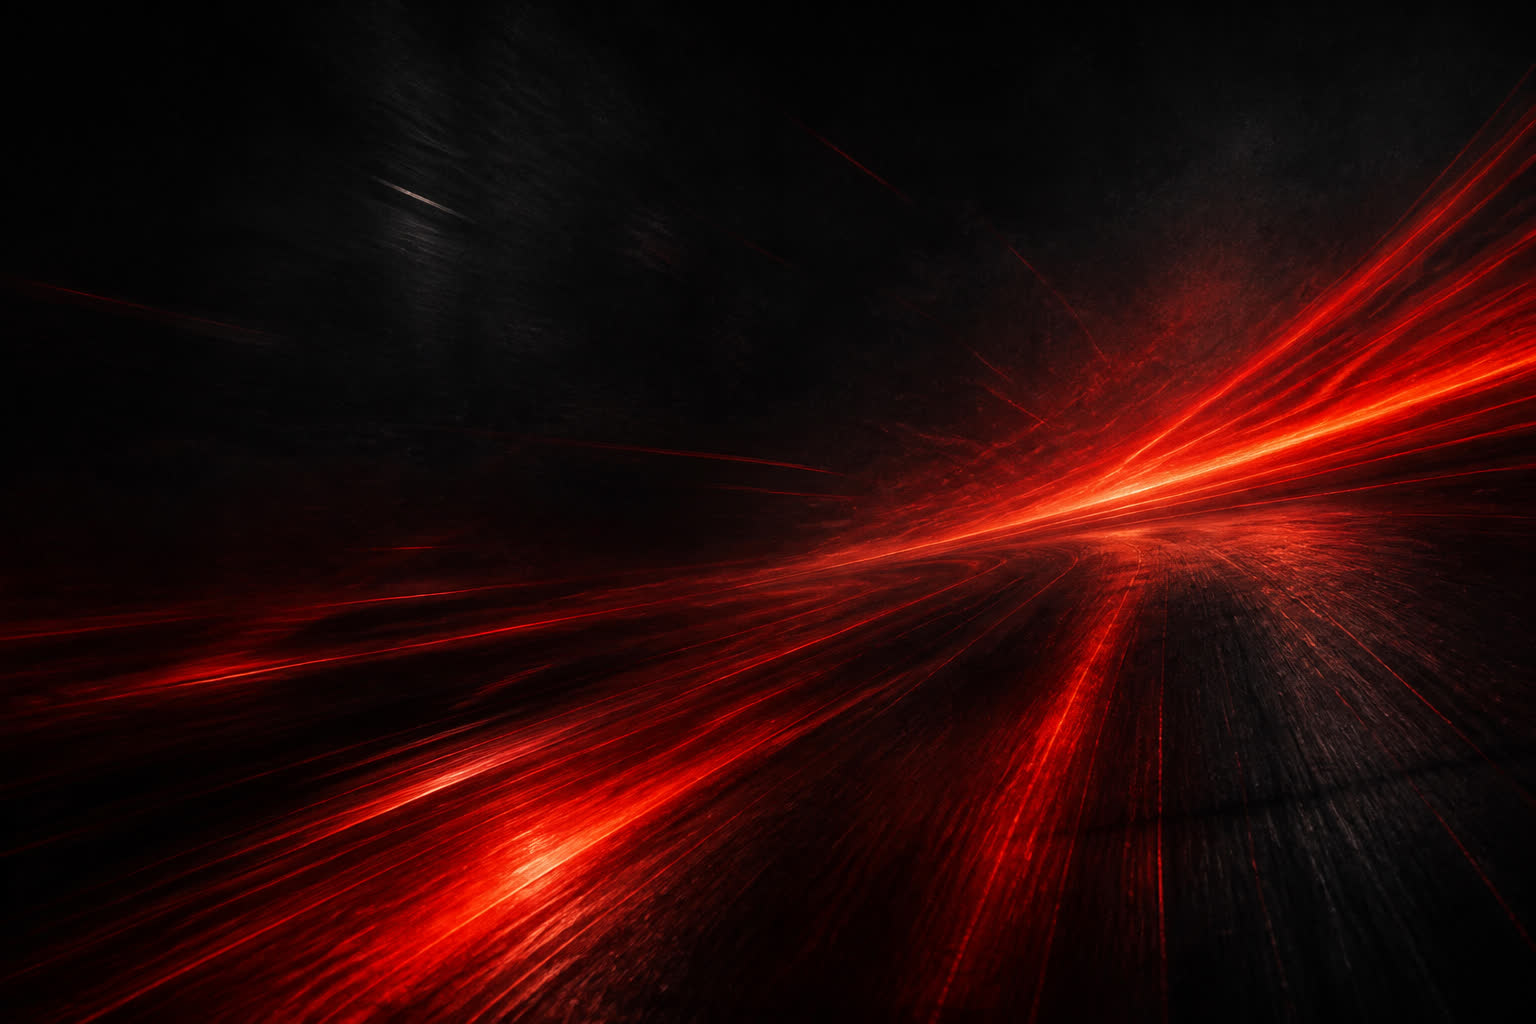
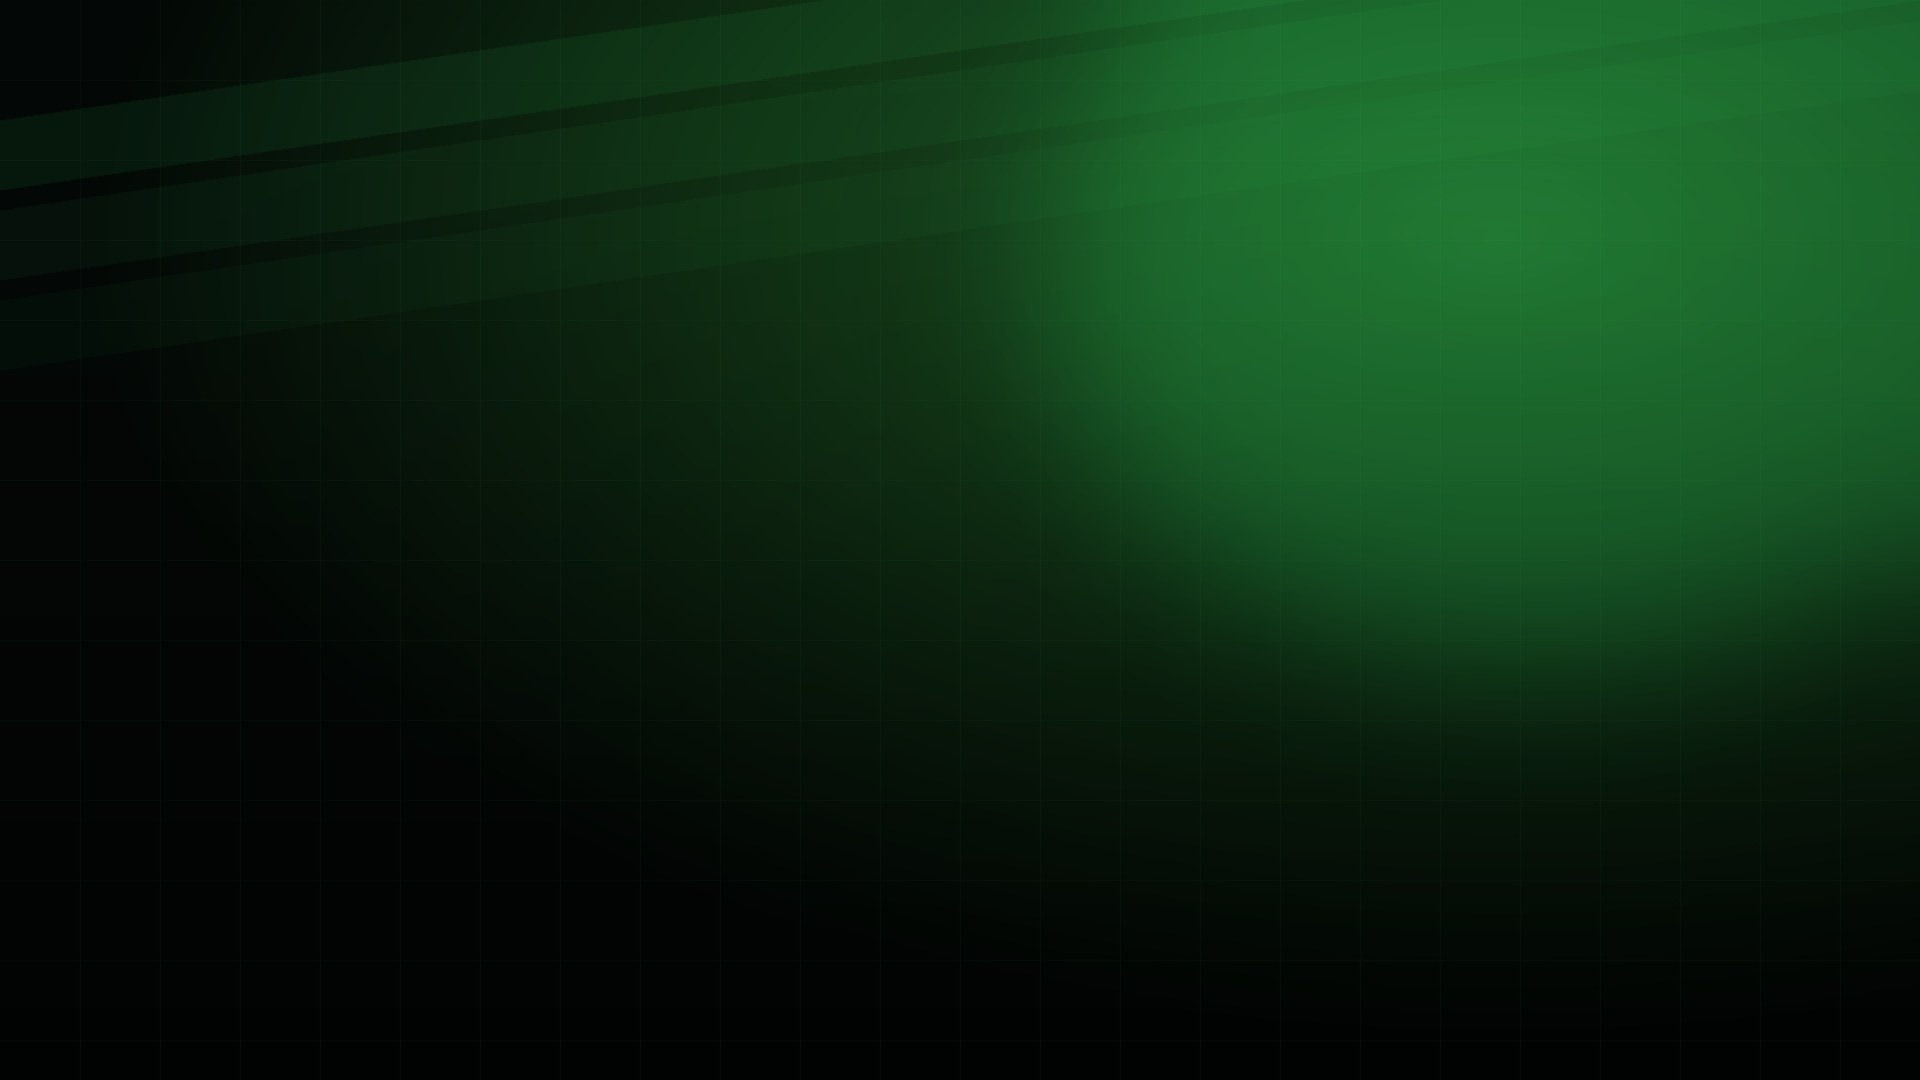
Aplica a paleta verde e preto da Action Fitness
Troca o vermelho de destaque por verde atlético no CSS, nos CTAs, no logo e no hero, alinhando o site às cores da academia.

diff --git a/academia/css/style.css b/academia/css/style.css
@@ -1,12 +1,13 @@
 :root {
-  --bg: #070708;
-  --bg-2: #101012;
-  --card: #141416;
-  --ink: #f6f3ef;
-  --muted: #b1aaa3;
-  --line: rgba(225, 29, 46, 0.28);
-  --red: #e11d2e;
-  --red-2: #ff4d5a;
+  --bg: #050806;
+  --bg-2: #0b100d;
+  --card: #101612;
+  --ink: #f3f8f4;
+  --muted: #a8b3ab;
+  --line: rgba(46, 229, 106, 0.28);
+  --verde: #2ee56a;
+  --verde-2: #7cff9a;
+  --verde-escuro: #0f8f42;
   --header: 76px;
   --radius: 20px;
   --font: "Manrope", system-ui, sans-serif;
@@ -20,7 +21,7 @@ body {
   font-family: var(--font);
   color: var(--ink);
   background:
-    radial-gradient(ellipse 60% 40% at 100% -10%, rgba(225, 29, 46, 0.22), transparent 55%),
+    radial-gradient(ellipse 60% 40% at 100% -10%, rgba(46, 229, 106, 0.18), transparent 55%),
     var(--bg);
   line-height: 1.55;
 }
@@ -28,7 +29,7 @@ body.menu-aberto { overflow: hidden; }
 img { max-width: 100%; display: block; }
 a { color: inherit; text-decoration: none; }
 a:focus-visible, button:focus-visible {
-  outline: 3px solid var(--red);
+  outline: 3px solid var(--verde);
   outline-offset: 3px;
 }
 
@@ -51,7 +52,7 @@ a:focus-visible, button:focus-visible {
   font-weight: 800;
   letter-spacing: 0.2em;
   text-transform: uppercase;
-  color: var(--red);
+  color: var(--verde);
 }
 h1, h2, h3 {
   font-family: var(--display);
@@ -121,8 +122,8 @@ h2 { font-size: clamp(2rem, 5vw, 3.4rem); }
   transition: transform 0.2s ease, box-shadow 0.2s ease, background 0.2s ease, color 0.2s ease, filter 0.2s ease;
 }
 .btn:hover { transform: translateY(-3px); }
-.btn-red { background: var(--red); color: #fff; box-shadow: 0 10px 22px rgba(225, 29, 46, 0.32); }
-.btn-red:hover { background: var(--red-2); color: #fff; }
+.btn-verde { background: var(--verde); color: #061109; box-shadow: 0 10px 22px rgba(46, 229, 106, 0.32); }
+.btn-verde:hover { background: var(--verde-2); color: #061109; }
 .btn-whatsapp { background: #25d366; color: #fff; }
 .btn-whatsapp:hover { background: #1ebe5d; color: #fff; }
 .btn-ghost { background: transparent; color: var(--ink); border: 1.5px solid rgba(255,255,255,.28); }
@@ -136,7 +137,7 @@ h2 { font-size: clamp(2rem, 5vw, 3.4rem); }
   height: 46px;
   border: 0;
   border-radius: 12px;
-  background: #1a1a1e;
+  background: #141a16;
   cursor: pointer;
 }
 .menu-toggle span { display: block; width: 18px; height: 2px; margin: 4px auto; background: #fff; }
@@ -168,7 +169,7 @@ h2 { font-size: clamp(2rem, 5vw, 3.4rem); }
     linear-gradient(180deg, rgba(7,7,8,.15) 0%, rgba(7,7,8,.55) 42%, rgba(7,7,8,.92) 100%);
 }
 .hero h1 { font-size: clamp(3.2rem, 10vw, 7.2rem); max-width: 12ch; }
-.hero h1 em { font-style: normal; color: var(--red); }
+.hero h1 em { font-style: normal; color: var(--verde); }
 .hero .lead { max-width: 36rem; font-size: 1.15rem; margin: 0.9rem 0 1.3rem; }
 .hero-actions { display: flex; flex-wrap: wrap; gap: 0.7rem; }
 .hero-chip {
@@ -203,7 +204,7 @@ h2 { font-size: clamp(2rem, 5vw, 3.4rem); }
   display: block;
   font-family: var(--display);
   font-size: 2rem;
-  color: var(--red);
+  color: var(--verde);
 }
 .stats span { color: var(--muted); font-size: 0.9rem; }
 
@@ -220,9 +221,9 @@ h2 { font-size: clamp(2rem, 5vw, 3.4rem); }
 .foto-slot {
   min-height: 380px;
   border-radius: 28px;
-  border: 1px dashed rgba(225, 29, 46, 0.4);
+  border: 1px dashed rgba(46, 229, 106, 0.4);
   background:
-    linear-gradient(160deg, rgba(225, 29, 46, 0.18), rgba(255,255,255,0.03));
+    linear-gradient(160deg, rgba(46, 229, 106, 0.18), rgba(255,255,255,0.03));
   display: grid;
   place-items: center;
   text-align: center;
@@ -236,8 +237,8 @@ h2 { font-size: clamp(2rem, 5vw, 3.4rem); }
   border-radius: 14px;
   display: grid;
   place-items: center;
-  background: rgba(225, 29, 46, 0.12);
-  color: var(--red);
+  background: rgba(46, 229, 106, 0.12);
+  color: var(--verde);
   margin-bottom: 0.9rem;
 }
 .ico svg { width: 24px; height: 24px; }
@@ -250,14 +251,14 @@ h2 { font-size: clamp(2rem, 5vw, 3.4rem); }
   border-radius: 14px;
   padding: 0.85rem 1rem;
 }
-.dot { width: 8px; height: 8px; border-radius: 50%; background: var(--red); margin-top: 0.5rem; flex-shrink: 0; }
+.dot { width: 8px; height: 8px; border-radius: 50%; background: var(--verde); margin-top: 0.5rem; flex-shrink: 0; }
 .hoje-card {
-  background: #1a0b0d;
-  border: 1px solid var(--red);
+  background: #0b1a10;
+  border: 1px solid var(--verde);
   border-radius: 18px;
   padding: 1.1rem 1.2rem;
 }
-.hoje-card.aberto { box-shadow: 0 0 0 1px var(--red); }
+.hoje-card.aberto { box-shadow: 0 0 0 1px var(--verde); }
 .hoje-card strong { display: block; font-family: var(--display); font-size: 1.5rem; }
 .hoje-card span { color: var(--muted); }
 
@@ -275,7 +276,7 @@ h2 { font-size: clamp(2rem, 5vw, 3.4rem); }
   padding: 1.25rem 1.2rem 1.3rem;
   transition: transform 0.2s ease, border-color 0.2s ease;
 }
-.card:hover { transform: translateY(-4px); border-color: var(--red); }
+.card:hover { transform: translateY(-4px); border-color: var(--verde); }
 .card h3 { font-size: 1.7rem; margin-bottom: 0.45rem; }
 .card p { margin: 0; color: var(--muted); }
 
@@ -287,9 +288,9 @@ h2 { font-size: clamp(2rem, 5vw, 3.4rem); }
 }
 .galeria .slot, .insta-grid .slot {
   border-radius: 18px;
-  border: 1px dashed rgba(225, 29, 46, 0.45);
+  border: 1px dashed rgba(46, 229, 106, 0.45);
   background:
-    linear-gradient(135deg, rgba(225, 29, 46, 0.16), rgba(255,255,255,0.03));
+    linear-gradient(135deg, rgba(46, 229, 106, 0.16), rgba(255,255,255,0.03));
   display: grid;
   place-items: center;
   color: var(--muted);
@@ -323,7 +324,7 @@ h2 { font-size: clamp(2rem, 5vw, 3.4rem); }
   padding: 1.2rem;
 }
 .quote p { margin: 0.4rem 0 0.8rem; font-size: 1.05rem; }
-.stars { color: var(--red); letter-spacing: 0.1em; }
+.stars { color: var(--verde); letter-spacing: 0.1em; }
 .depoimentos-wrap { position: relative; }
 .depoimentos {
   display: flex;
@@ -380,26 +381,31 @@ h2 { font-size: clamp(2rem, 5vw, 3.4rem); }
   border-radius: 16px;
   padding: 0.95rem 1.1rem;
 }
-.horarios article.hoje { border-color: var(--red); background: #1a0b0d; }
+.horarios article.hoje { border-color: var(--verde); background: #0b1a10; }
 .selo-hoje {
   display: inline-block;
   margin-left: 0.5rem;
   font-size: 0.7rem;
   letter-spacing: 0.12em;
   text-transform: uppercase;
-  color: var(--red);
+  color: var(--verde);
   font-weight: 800;
 }
 .selo-hoje[hidden] { display: none; }
 
 .cta-box {
-  background: linear-gradient(135deg, #e11d2e, #8a0d18);
+  background: linear-gradient(135deg, #2ee56a, #0f8f42);
   border-radius: 28px;
   padding: 2.4rem 1.6rem;
   text-align: center;
+  color: #061109;
 }
-.cta-box p { max-width: 34rem; margin: 0.7rem auto 1.2rem; }
-.cta-box .btn-whatsapp { background: #fff; color: #111; }
+.cta-box .kicker { color: #04351a; }
+.cta-box h2 { color: #061109; }
+.cta-box p { max-width: 34rem; margin: 0.7rem auto 1.2rem; color: #0b2414; }
+.cta-box .btn-whatsapp { background: #061109; color: #2ee56a; }
+.cta-box .btn-ghost { color: #061109; border-color: rgba(6, 17, 9, 0.35); }
+.cta-box .btn-ghost:hover { background: #061109; color: #2ee56a; }
 
 .local-grid { grid-template-columns: 0.85fr 1.15fr; }
 .info-card, .hours-card {
@@ -420,7 +426,7 @@ h2 { font-size: clamp(2rem, 5vw, 3.4rem); }
 .site-footer {
   margin-top: 1.5rem;
   padding: 2.3rem 0 1.3rem;
-  background: #050506;
+  background: #030504;
   border-top: 1px solid var(--line);
 }
 .footer-grid { display: grid; grid-template-columns: 1.3fr 1fr 1fr; gap: 1.5rem; }
@@ -481,7 +487,7 @@ h2 { font-size: clamp(2rem, 5vw, 3.4rem); }
     flex-direction: column;
     align-items: stretch;
     gap: 0;
-    background: #121214;
+    background: #0c120e;
     padding: 0.6rem 1rem 1rem;
     border-bottom: 1px solid var(--line);
   }

diff --git a/academia/index.html b/academia/index.html
@@ -15,7 +15,7 @@
   <meta name="twitter:card" content="summary_large_image">
   <meta name="twitter:title" content="Action Fitness | Academia em Estreito - MA">
   <meta name="twitter:description" content="Musculação e treinamento híbrido no centro de Estreito. Fale no WhatsApp.">
-  <meta name="theme-color" content="#070708">
+  <meta name="theme-color" content="#050806">
   <meta name="referrer" content="strict-origin-when-cross-origin">
   <meta http-equiv="X-Content-Type-Options" content="nosniff">
   <meta http-equiv="Content-Security-Policy" content="default-src 'self'; script-src 'self'; style-src 'self' https://fonts.googleapis.com; font-src https://fonts.gstatic.com; img-src 'self' data:; frame-src https://maps.google.com https://www.google.com; base-uri 'self'; form-action 'self' https://wa.me; frame-ancestors 'none'; upgrade-insecure-requests">
@@ -80,7 +80,7 @@
         <a class="btn btn-whatsapp" data-evento="click_whatsapp" href="https://wa.me/5599992348793?text=Ol%C3%A1%21%20Conheci%20a%20Action%20Fitness%20pelo%20site%20e%20gostaria%20de%20saber%20mais%20sobre%20os%20planos." target="_blank" rel="noopener noreferrer">Falar no WhatsApp</a>
       </nav>
       <div class="header-cta">
-        <a class="btn btn-red" href="#contato" data-evento="cta_click">Quero treinar</a>
+        <a class="btn btn-verde" href="#contato" data-evento="cta_click">Quero treinar</a>
       </div>
       <button class="menu-toggle" type="button" aria-expanded="false" aria-controls="menu" aria-label="Abrir menu">
         <span></span><span></span><span></span>
@@ -101,7 +101,7 @@
           <h1>Seu próximo <em>nível</em> começa aqui.</h1>
           <p class="lead">Treine com estrutura, energia e acompanhamento para transformar sua rotina.</p>
           <div class="hero-actions">
-            <a class="btn btn-red btn-lg" href="#estrutura" data-evento="cta_click">Quero conhecer</a>
+            <a class="btn btn-verde btn-lg" href="#estrutura" data-evento="cta_click">Quero conhecer</a>
             <a class="btn btn-whatsapp btn-lg" data-evento="click_whatsapp" href="https://wa.me/5599992348793?text=Ol%C3%A1%21%20Conheci%20a%20Action%20Fitness%20pelo%20site%20e%20gostaria%20de%20saber%20mais%20sobre%20os%20planos." target="_blank" rel="noopener noreferrer">Falar no WhatsApp</a>
           </div>
         </div>
@@ -234,7 +234,7 @@
           <article class="plano"><strong>Mensal</strong><p class="valor">Consulte condições</p><a class="btn btn-ghost" data-evento="click_whatsapp" href="https://wa.me/5599992348793?text=Ol%C3%A1%21%20Quero%20consultar%20o%20plano%20mensal%20da%20Action%20Fitness." target="_blank" rel="noopener noreferrer">Consultar planos</a></article>
           <article class="plano"><strong>Trimestral</strong><p class="valor">Consulte condições</p><a class="btn btn-ghost" data-evento="click_whatsapp" href="https://wa.me/5599992348793?text=Ol%C3%A1%21%20Quero%20consultar%20o%20plano%20trimestral%20da%20Action%20Fitness." target="_blank" rel="noopener noreferrer">Consultar planos</a></article>
           <article class="plano"><strong>Semestral</strong><p class="valor">Consulte condições</p><a class="btn btn-ghost" data-evento="click_whatsapp" href="https://wa.me/5599992348793?text=Ol%C3%A1%21%20Quero%20consultar%20o%20plano%20semestral%20da%20Action%20Fitness." target="_blank" rel="noopener noreferrer">Consultar planos</a></article>
-          <article class="plano"><strong>Anual</strong><p class="valor">Consulte condições</p><a class="btn btn-red" data-evento="click_whatsapp" href="https://wa.me/5599992348793?text=Ol%C3%A1%21%20Quero%20consultar%20o%20plano%20anual%20da%20Action%20Fitness." target="_blank" rel="noopener noreferrer">Consultar planos</a></article>
+          <article class="plano"><strong>Anual</strong><p class="valor">Consulte condições</p><a class="btn btn-verde" data-evento="click_whatsapp" href="https://wa.me/5599992348793?text=Ol%C3%A1%21%20Quero%20consultar%20o%20plano%20anual%20da%20Action%20Fitness." target="_blank" rel="noopener noreferrer">Consultar planos</a></article>
         </div>
         <p style="margin-top:1.1rem; display:flex; gap:.6rem; flex-wrap:wrap;">
           <span class="selo">Wellhub</span>
@@ -261,7 +261,7 @@
     <section class="section" id="contato">
       <div class="wrap">
         <div class="cta-box reveal">
-          <p class="kicker" style="color:#fff">Comece sua evolução</p>
+          <p class="kicker">Comece sua evolução</p>
           <h2>Pronto para começar?</h2>
           <p>Conheça a Action Fitness e descubra um espaço preparado para acompanhar sua evolução.</p>
           <div class="hero-actions" style="justify-content:center">
@@ -311,7 +311,7 @@
         </div>
         <div class="insta-grid" data-instagram aria-label="Galeria do Instagram"></div>
         <p style="margin-top:1.1rem">
-          <a class="btn btn-red" data-evento="click_instagram" href="https://www.instagram.com/actionfitness_academia/" target="_blank" rel="noopener noreferrer">Ver Instagram</a>
+          <a class="btn btn-verde" data-evento="click_instagram" href="https://www.instagram.com/actionfitness_academia/" target="_blank" rel="noopener noreferrer">Ver Instagram</a>
         </p>
       </div>
     </section>

diff --git a/tests/test_academia_site.py b/tests/test_academia_site.py
@@ -50,7 +50,9 @@ def test_estilo_e_script_referenciados():
     assert 'href="css/style.css"' in html
     assert 'src="js/main.js"' in html
     assert 'src="js/site-data.js"' in html
-    assert "--red: #e11d2e" in css
+    assert "--verde: #2ee56a" in css
+    assert "--bg: #050806" in css
+    assert "#e11d2e" not in css
     assert ".selo-hoje[hidden]" in css
     assert "id=\"experiencia\"" in html
     assert 'id="instagram"' in html
